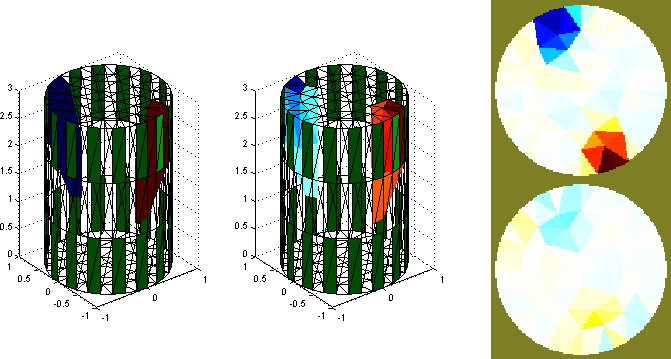
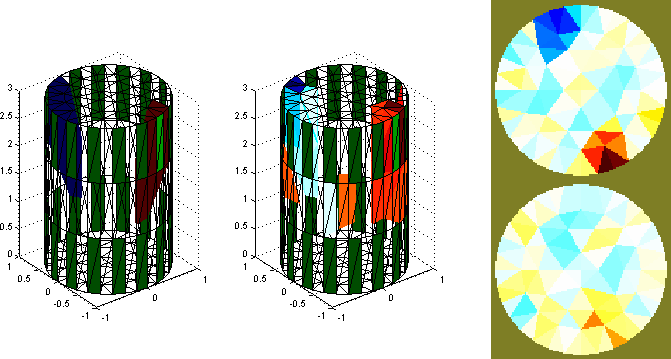
tutorial #2 and add noise
git-svn-id: svn://svn.code.sf.net/p/eidors3d/code/trunk@712 82006732-fb7e-4a22-9f28-86a212cce563

Changed region(s): [[0.7154, 0.0, 1.0, 1.0], [0.4173, 0.2451, 0.6259, 0.6741], [0.5663, 0.2758, 0.5961, 0.337]]

diff --git a/htdocs/tutorial/tutorial020b.m b/htdocs/tutorial/tutorial020b.m
@@ -1,5 +1,5 @@
 % tutorial1_create_fwd_model
-% $Id: tutorial020b.m,v 1.1 2006-08-17 17:57:33 aadler Exp $
+% $Id: tutorial020b.m,v 1.2 2006-08-17 21:07:09 aadler Exp $
 
 
 % Define stimulation patterns
@@ -12,9 +12,13 @@ end
 r_mdl.solve=      @tutorial020_f_solve;
 
 % Define an 'image'
-img_1k = eidors_obj('image', 'resistor');
-img_1k.elem_data= 1000;
-img_1k.fwd_model= r_mdl;
+resistor = eidors_obj('image', 'resistor');
+resistor.elem_data= 1000;
+resistor.fwd_model= r_mdl;
 
-data_1k =fwd_solve( img_1k );
+% Calculate data for 1k resistor
+data_1k0 =fwd_solve( resistor );
 
+% Now change resistor to be 1.2k
+resistor.elem_data= 1200;
+data_1k2 =fwd_solve( resistor );

diff --git a/htdocs/tutorial/tutorial010c.m b/htdocs/tutorial/tutorial010c.m
@@ -1,8 +1,13 @@
 % Reconstruct images
-% $Id: tutorial010c.m,v 1.2 2006-08-17 20:44:02 aadler Exp $
+% $Id: tutorial010c.m,v 1.3 2006-08-17 21:07:09 aadler Exp $
 
 subplot(131)
 show_fem(sim_img);
+
+%Add 20dB SNR noise to data
+noise_level= std(inh_data.meas - homg_data.meas)/10^(20/20);
+inh_data.meas = inh_data.meas + noise_level* ...
+                randn(size(inh_data.meas));
 
 %reconstruct 
 rec_img= inv_solve(imdl_3d, inh_data, homg_data);

diff --git a/htdocs/tutorial/tutorial020a.m b/htdocs/tutorial/tutorial020a.m
@@ -1,5 +1,5 @@
 % tutorial1_create_fwd_model
-% $Id: tutorial020a.m,v 1.1 2006-08-17 17:57:33 aadler Exp $
+% $Id: tutorial020a.m,v 1.2 2006-08-17 21:07:09 aadler Exp $
 
 r_mdl= eidors_obj('fwd_model','demo resistor model');
 
@@ -14,6 +14,4 @@ r_mdl.electrode(1).nodes=     1;
 r_mdl.gnd_node= 2;
 
 show_fem(r_mdl); view(-12,24);
-print -r50 -dpng tutorial02a.png
-
-
+print -r50 -dpng tutorial020a.png

diff --git a/htdocs/tutorial/tutorial020_f_solve.m b/htdocs/tutorial/tutorial020_f_solve.m
@@ -25,4 +25,3 @@ function data =tutorial020_f_solve( f_mdl, img )
 
   data.name='resistor model data';
   data.meas= V;
-
